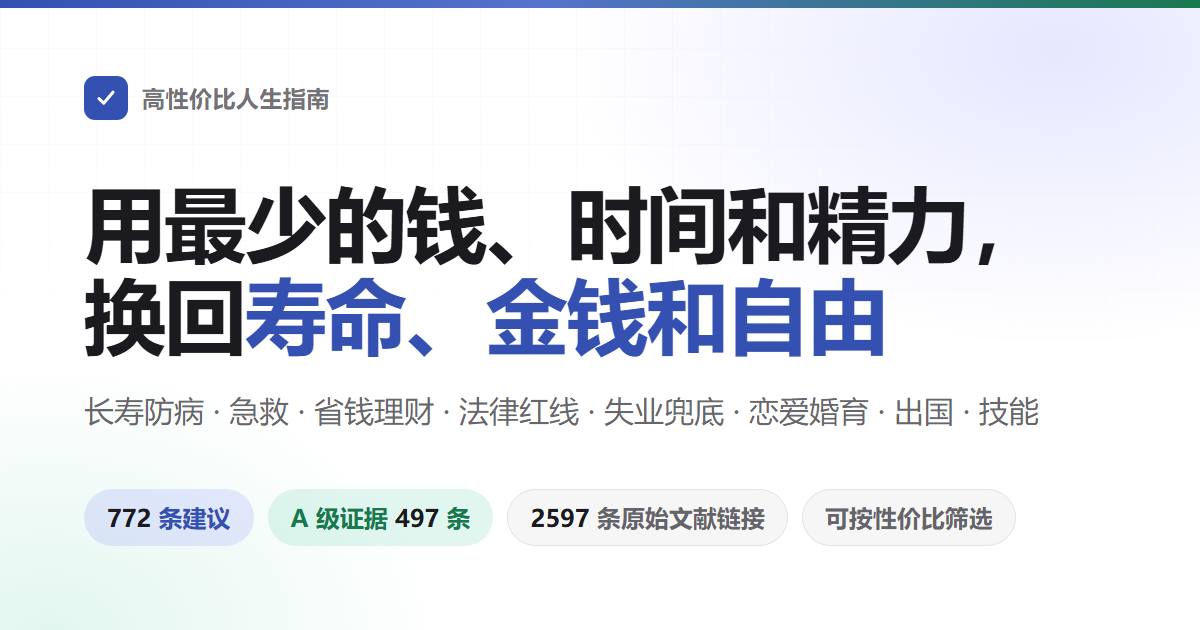
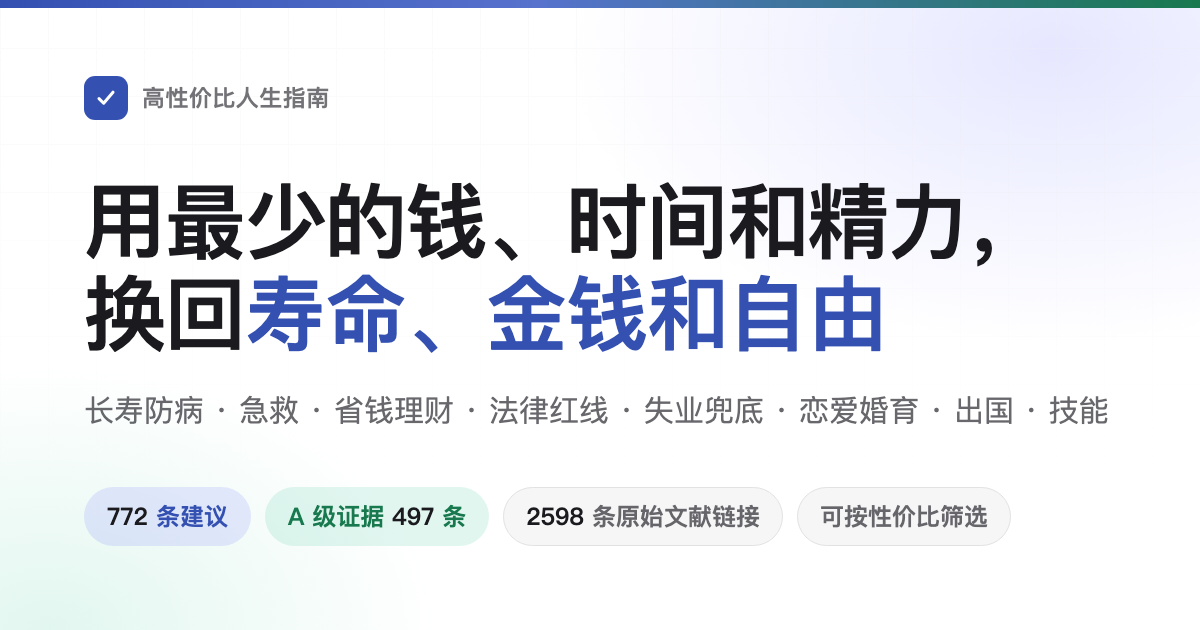
F25: 替换失效青岛案例并按深圳司法局原文重写事实
Refs eternity4719/HowToLiveBetter#171

diff --git a/tools/og.html b/tools/og.html
@@ -36,7 +36,7 @@ p{margin-top:26px;font-size:30px;white-space:nowrap;line-height:1.6;color:#3c3c4
   <div class="chips">
     <div class="c u"><b>772</b> 条建议</div>
     <div class="c a">A 级证据 <b>497</b> 条</div>
-    <div class="c"><b>2597</b> 条原始文献链接</div>
+    <div class="c"><b>2598</b> 条原始文献链接</div>
     <div class="c">可按性价比筛选</div>
   </div>
 </div>

diff --git a/docs/引用对照.md b/docs/引用对照.md
@@ -168,7 +168,7 @@
 | 节首 | 本节第 1 条 | 戒烟，越早越好 | …戒烟越早越好（… |
 | 节首 | 本节第 2 条 | 别在家里和车里抽烟，也别让客人在家里抽 | …戒烟越早越好（第 1 条），家里和车里不抽烟（… |
 | 节首 | 本节第 3 条 | 戒烟别光靠忍，先去拿药：吃伐尼克兰的成功率能翻一倍多 | …戒烟越早越好（第 1 条），家里和车里不抽烟（第 2 条），戒烟先去拿药（… |
-| 节首 | 本节第 4 条 | 定一个戒烟日，到那天一次停掉，别先慢慢减 | …第 1 条），家里和车里不抽烟（第 2 条），戒烟先去拿药（第 3 条），定一个戒烟日（… |
+| 节首 | 本节第 4 条 | 定一个戒烟日，可以一次停掉，也可以先慢慢减到完全不抽 | …第 1 条），家里和车里不抽烟（第 2 条），戒烟先去拿药（第 3 条），定一个戒烟日（… |
 | 节首 | 本节第 5 条 | 去戒烟门诊，或者打 12320 问当地有没有戒烟服务 | …），戒烟先去拿药（第 3 条），定一个戒烟日（第 4 条），去戒烟门诊或打 12320（… |
 | 节首 | 本节第 6 条 | 已经戒不掉再考虑电子烟，本来不吸烟的人别碰 | …一个戒烟日（第 4 条），去戒烟门诊或打 12320（第 5 条），戒不掉再考虑电子烟（… |
 | 节首 | 本节第 8 条 | 不嚼槟榔 | …，去戒烟门诊或打 12320（第 5 条），戒不掉再考虑电子烟（第 6 条），不嚼槟榔（… |
@@ -213,11 +213,11 @@
 | 节首 | 本节第 36 条 | 有条件就泡澡，别只冲淋浴 | … 条），按医嘱规律吃药（第 12 条），白天出门晒晒太阳（第 31 条），有条件就泡澡（… |
 | 节首 | 本节第 43 条 | 绝经前后潮热盗汗影响到生活，就去妇科评估激素治疗，别硬扛也别自己买药，更别拿它防心脏病 | …出门晒晒太阳（第 31 条），有条件就泡澡（第 36 条），绝经前后潮热去评估激素治疗（… |
 | 第 1 条 | 本节第 3 条 | 戒烟别光靠忍，先去拿药：吃伐尼克兰的成功率能翻一倍多 | …… |
-| 第 1 条 | 本节第 4 条 | 定一个戒烟日，到那天一次停掉，别先慢慢减 | …第 3 条（戒烟药）、… |
+| 第 1 条 | 本节第 4 条 | 定一个戒烟日，可以一次停掉，也可以先慢慢减到完全不抽 | …第 3 条（戒烟药）、… |
 | 第 1 条 | 本节第 5 条 | 去戒烟门诊，或者打 12320 问当地有没有戒烟服务 | …第 3 条（戒烟药）、第 4 条（定一个戒烟日）、… |
 | 第 1 条 | 本节第 6 条 | 已经戒不掉再考虑电子烟，本来不吸烟的人别碰 | …第 3 条（戒烟药）、第 4 条（定一个戒烟日）、第 5 条（去戒烟门诊）、… |
 | 第 2 条 | 本节第 1 条 | 戒烟，越早越好 | …自己戒烟见本节… |
-| 第 3 条 | 本节第 4 条 | 定一个戒烟日，到那天一次停掉，别先慢慢减 | …药只解决戒断那几周的难受，不解决「想抽」的场合，所以要和本节… |
+| 第 3 条 | 本节第 4 条 | 定一个戒烟日，可以一次停掉，也可以先慢慢减到完全不抽 | …药只解决戒断那几周的难受，不解决「想抽」的场合，所以要和本节… |
 | 第 3 条 | 本节第 5 条 | 去戒烟门诊，或者打 12320 问当地有没有戒烟服务 | …药只解决戒断那几周的难受，不解决「想抽」的场合，所以要和本节第 4 条（定一个戒烟日）、… |
 | 第 5 条 | 本节第 3 条 | 戒烟别光靠忍，先去拿药：吃伐尼克兰的成功率能翻一倍多 | …要配的药见本节… |
 | 第 6 条 | 第 22 节第 4 条 | 不吃陌生人给的糖和零食，不喝离开过视线的饮料，不接别人递的烟弹 | …掺了合成大麻素的「上头电子烟」就是这么流出来的，见… |
@@ -333,7 +333,7 @@
 | 第 25 条 | 第 34 节第 3 条 | 60 岁以上、胃出过血、在吃抗凝药或激素的人，吃布洛芬这类止痛药之前先问医生 | …细节见… |
 | 第 25 条 | 第 34 节第 5 条 | 怀孕 20 周以后，别自己吃布洛芬这类止痛药 | …可能怀孕时先问医生，怀孕 20 周以后别自己吃，见… |
 | 第 25 条 | 第 34 节第 1 条 | 同时吃两种感冒药或止痛药之前，先看成分表，对乙酰氨基酚只能占一种，吃多了没不舒服也当天去医院 | …不能吃这类药的，可以改用对乙酰氨基酚，一天的上限见… |
-| 第 25 条 | 第 34 节第 9 条 | 止痛药一个月别吃超过 15 天，复方止痛药别超过 10 天，不然头痛可能就是药吃出来的 | …… |
+| 第 25 条 | 第 34 节第 9 条 | 头痛时，普通止痛药每月用到 15 天、复方止痛药用到 10 天，就要警惕药物过度使用性头痛 | …… |
 | 第 26 条 | 第 6 节第 34 条 | 不要指望长期失眠靠吃褪黑素治好，它平均只让人早睡着约 7 分钟，先做失眠的认知行为治疗 | …别指望靠褪黑素治好长期失眠，见… |
 | 第 26 条 | 本节第 2 条 | 固定起床时间，周末也一样 | …这时先固定起床时间，见本节… |
 | 第 26 条 | 本节第 4 条 | 下午两点以后不碰咖啡因 | …再看… |
@@ -704,7 +704,7 @@
 | 节首 | 本节第 43 条 | 被家暴了：先报警留下出警记录，再去法院申请人身安全保护令，不用先离婚，也不收费 | …条），婚前财产写清楚（第 25 条），结婚前核对婚姻状况（第 26 条），被家暴先报警（… |
 | 节首 | 本节第 5 条 | 被指控或被传唤，先请律师，不私了、不删记录 | …被传唤先请律师（… |
 | 节首 | 本节第 6 条 | 出了事主动去说清楚：自首最多能减四成刑，犯罪较轻的还能减更多甚至免罚，「躲过追诉期」这条路是堵死的 | …被传唤先请律师（第 5 条），出了事主动去说清楚（… |
-| 节首 | 本节第 33 条 | 被人捏造事实举报，可以要求追究：够治安处罚的拘留 5 日起，够罪的判 3 年以下 | …被传唤先请律师（第 5 条），出了事主动去说清楚（第 6 条），被人捏造事实举报（… |
+| 节首 | 本节第 33 条 | 被人捏造事实举报，可以要求追究：够治安处罚的可拘留 5 日以下或罚款，情节较重的拘留 5 到 10 日，够罪的判 3 年以下 | …被传唤先请律师（第 5 条），出了事主动去说清楚（第 6 条），被人捏造事实举报（… |
 | 节首 | 本节第 34 条 | 证据不足本来就应当判无罪，逼出来的口供应当排除；判了还有申诉和再审 | …出了事主动去说清楚（第 6 条），被人捏造事实举报（第 33 条），证据不足应当判无罪（… |
 | 节首 | 本节第 35 条 | 被羁押后撤案、不起诉或者判无罪的，去申请国家赔偿，按天算钱 | …），被人捏造事实举报（第 33 条），证据不足应当判无罪（第 34 条），申请国家赔偿（… |
 | 节首 | 本节第 39 条 | 报警当场要受案回执，不立案要书面通知：7 日内可申请复议，再 7 日可申请复核，检察院能通知公安立案 | …，证据不足应当判无罪（第 34 条），申请国家赔偿（第 35 条），报警当场要受案回执（… |
@@ -724,7 +724,7 @@
 | 第 3 条 | 第 12 节第 24 条 | 花钱请人代运营网店、上开店培训、做「无货源」之前，先问清后面还要不要加钱、销量从哪来 | …做生意时撞上的代运营骗局，见… |
 | 第 3 条 | 本节第 45 条 | 熟人让你「帮忙刷个脸、做个见证」去办贷款，或者要你念验证码，别答应：这叫 AB 贷，借款人是你，不是担保人 | …熟人当面找你「帮忙刷个脸」办贷款，不让你转钱，却让你背债，见… |
 | 第 4 条 | 本节第 2 条 | 发现被骗，立刻打 110 或 96110 要求止付，别先自己查 | …已经转了钱，见本节… |
-| 第 5 条 | 本节第 33 条 | 被人捏造事实举报，可以要求追究：够治安处罚的拘留 5 日起，够罪的判 3 年以下 | …展开的三条见本节… |
+| 第 5 条 | 本节第 33 条 | 被人捏造事实举报，可以要求追究：够治安处罚的可拘留 5 日以下或罚款，情节较重的拘留 5 到 10 日，够罪的判 3 年以下 | …展开的三条见本节… |
 | 第 5 条 | 本节第 34 条 | 证据不足本来就应当判无罪，逼出来的口供应当排除；判了还有申诉和再审 | …展开的三条见本节第 33 条（追究捏造事实的一方）、… |
 | 第 5 条 | 本节第 35 条 | 被羁押后撤案、不起诉或者判无罪的，去申请国家赔偿，按天算钱 | …见本节第 33 条（追究捏造事实的一方）、第 34 条（证据不足应当判无罪与申诉再审）、… |
 | 第 6 条 | 本节第 1 条 | 出了交通事故先停车、救人、报警，不要跑 | …事故现场怎么做见本节… |
@@ -1860,7 +1860,7 @@
 | 确诊那一周 | 第 16 节第 9 条 | 确诊痛风后长了痛风石、影像上看到骨头被啃出缺损或每年发作 2 次以上的，就长期吃降尿酸药，把血尿酸压到 360 µmol/L 以下并一直维持 | …见… |
 | 确诊那一周 | 第 16 节第 9 条 | 确诊痛风后长了痛风石、影像上看到骨头被啃出缺损或每年发作 2 次以上的，就长期吃降尿酸药，把血尿酸压到 360 µmol/L 以下并一直维持 | …见… |
 | 确诊那一周 | 第 6 节第 19 条 | 不要因为体检查出尿酸高、但从没痛过，就开始吃降尿酸药 | …见… |
-| 确诊那一周 | 第 2 节第 4 条 | 定一个戒烟日，到那天一次停掉，别先慢慢减 | …见… |
+| 确诊那一周 | 第 2 节第 4 条 | 定一个戒烟日，可以一次停掉，也可以先慢慢减到完全不抽 | …见… |
 | 确诊那一周 | 第 2 节第 3 条 | 戒烟别光靠忍，先去拿药：吃伐尼克兰的成功率能翻一倍多 | …见… |
 | 头三个月 | 第 16 节第 3 条 | 复查按医生给的间隔做，把每次的指标记在同一个本子上 | …见… |
 | 头三个月 | 第 24 节第 5 条 | 每次看完病，把病历、检查报告和影像自己存一份 | …见… |
@@ -1943,7 +1943,7 @@
 
 | 出处 | 引用 | 指向的条目 | 引用处的上下文 |
 | --- | --- | --- | --- |
-| 家庭应急装备清单：买什么、放哪里、多久检查一次 | 第 1 节第 26 条 | 备齐灭火器、灭火毯、逃生呼吸面罩和急救包，每年检查一次 | …对应 README … |
+| 家庭应急装备清单：买什么、放哪里、多久检查一次 | 第 1 节第 26 条 | 备齐灭火器、灭火毯、逃生呼吸面罩和急救包，每年检查一次 | …对应[… |
 | 家庭应急装备清单：买什么、放哪里、多久检查一次 | 第 1 节第 3 条 | 装烟雾报警器；冬天在室内烧煤、用燃气取暖的再装一氧化碳报警器 | …烟雾报警器和一氧化碳报警器怎么选怎么装，见… |
 | 家庭应急装备清单：买什么、放哪里、多久检查一次 | 第 1 节第 4 条 | 燃气软管和灶具到期就换，不自己改管道，燃气公司上门推销可以直接拒绝 | …燃气软管和灶具见… |
 | 二、消防三件套 | 第 13 节第 24 条 | 火灾时贴地爬、摸门再开门、门烫就别开，走楼梯不坐电梯，出去了别回头 | …怎么往外逃（贴地爬、摸门再开门、走楼梯不坐电梯），见… |

diff --git a/book/19-在职离职和工伤.md b/book/19-在职离职和工伤.md
@@ -231,8 +231,8 @@
 ### 25. 劳动合同要拿回自己那一份；已经在空白或没填全的合同上签了字，当天就发书面消息要单位填好交你一份，把「签的时候是空白」留下记录
 <!-- 成本标签: 钱=0 时间=少 毅力=些 收益=中 口径=金钱 -->
 - 成本：不花钱。签之前把合同从头看到尾，单位名称、期限、岗位、工资这几栏空着就先别签。已经签了的，当天给经办人发一条微信或邮件。写明哪几栏签的时候是空的，请单位填好后给你一份。单位不给，打 12333 或者去人社局劳动监察投诉。立案后 60 个工作日内查完，复杂的再延 30 个工作日。闹到要赔钱，走劳动仲裁，1 年内申请，不收费，受理后 45 天内结案，最多再延 15 天。不服的再去法院，一审普通程序按规定 6 个月内审完，可以延长，律师费自己出。难在刚入职就要开口要合同。
-- 说人话：劳动合同要单位和你各拿一份，没写全工资、期限这些必备内容的，单位会被责令改正。签了空白合同又拿不出证据，仲裁可能就认单位后来填的那份。所以签完就要单位填好给你一份，并把签时是空白留下记录。
-- 收益：劳动合同法规定，合同要双方在合同文本上签字或者盖章才生效。文本由单位和劳动者各拿一份。合同必须写明的条款有九项。其中有单位名称、合同期限、工作内容和地点、工作时间、劳动报酬、社会保险、劳动保护。单位给的文本没写全必备条款，或者没把文本交给劳动者的，由劳动行政部门责令改正。给劳动者造成损害的，要赔偿。单位和劳动者订立劳动合同的情况，本来就在劳动保障监察管的事里。合同对工资、劳动条件约定不明确的，可以重新协商。协商不成的按集体合同。没有集体合同或者集体合同没规定工资的，同工同酬。用欺诈、胁迫手段或者乘人之危，让人违背真实意思签下的合同，无效或者部分无效，由仲裁或者法院确认。青岛市人社局公布过一个仲裁案例。一名销售员入职约五个月后辞职，要单位付没签合同的二倍工资。单位拿出一份有他签名的两年期合同。他认签名是自己的，说签时是空白，但拿不出证据。仲裁庭认了这份合同，驳回了他的请求。人社局的评析说，签了字就要履行。只有拿出有效证据证明单位有欺诈、胁迫这类情形，合同才会被认定无效。北京大兴法院审过一个结果相反的案子。20 名班车司机说签过空白合同，手里没有合同。签的时候单位让他们在一沓文件上签名，没让看内容。单位拿出的合同，期限都是手写。司机们入职时间、签订次数各不相同，终止日却都写成同一天。这一天正好是单位和客户合作结束的日子。法院认为，司机们说签的是空白期限的合同更可信。单位又证明不了这个终止日是当时的真实约定，法院认定构成违法解除，要付违法解除赔偿金。二审维持原判。开除、辞退、解除合同、减少工资这类决定引起的争议，由单位负举证责任（全国；两个案例只代表当地的认定）
+- 说人话：劳动合同要单位和你各拿一份，没写全工资、期限这些必备内容的，单位会被责令改正。签过空白合同，后来想维权，不能只靠一句「签时是空白」。所以签完就要单位填好给你一份，并把签时是空白留下记录。
+- 收益：劳动合同法规定，合同要双方在合同文本上签字或者盖章才生效。文本由单位和劳动者各拿一份。合同必须写明的条款有九项。其中有单位名称、合同期限、工作内容和地点、工作时间、劳动报酬、社会保险、劳动保护。单位给的文本没写全必备条款，或者没把文本交给劳动者的，由劳动行政部门责令改正。给劳动者造成损害的，要赔偿。单位和劳动者订立劳动合同的情况，本来就在劳动保障监察管的事里。合同对工资、劳动条件约定不明确的，可以重新协商。协商不成的按集体合同。没有集体合同或者集体合同没规定工资的，同工同酬。用欺诈、胁迫手段或者乘人之危，让人违背真实意思签下的合同，无效或者部分无效，由仲裁或者法院确认。深圳市司法局公布过一宗法律援助案件。一名大巴司机说，入职时签的是单位信息、期限、工资、岗位都空着的合同。他被辞退后申请仲裁，只获支持部分工资。后来他起诉并申请法律援助，律师梳理证据，从薪酬模式入手。法院一审除维持仲裁裁决外，另判公司支付加班费、赔偿金等共计 3 万余元。这说明签过空白合同后，仍要靠具体证据争取权益。北京大兴法院还审过一宗相关案子。20 名班车司机说签过空白合同，手里没有合同。签的时候单位让他们在一沓文件上签名，没让看内容。单位拿出的合同，期限都是手写。司机们入职时间、签订次数各不相同，终止日却都写成同一天。这一天正好是单位和客户合作结束的日子。法院认为，司机们说签的是空白期限的合同更可信。单位又证明不了这个终止日是当时的真实约定，法院认定构成违法解除，要付违法解除赔偿金。二审维持原判。开除、辞退、解除合同、减少工资这类决定引起的争议，由单位负举证责任（全国；两个案例只代表当地的认定）
 - 证据等级：B
-- 来源：全国人大常委会 (2012 修正). 劳动合同法（第十六、十七、十八、二十六、八十一条）. <https://fgk.chinatax.gov.cn/zcfgk/c100009/c5193025/content.html>（国家税务总局政策法规库转载）；国务院 (2004). 劳动保障监察条例（国务院令第 423 号，第十一、十七条）. <https://www.gov.cn/gongbao/content/2004/content_63042.htm>；最高人民法院 (2020). 关于审理劳动争议案件适用法律问题的解释（一）（法释〔2020〕26 号，第四十四条）. <https://www.court.gov.cn/fabu/xiangqing/282121.html>；全国人大常委会 (2007). 劳动争议调解仲裁法（第二十七、四十三、五十三条）. <https://rsj.ankang.gov.cn/Content-2150407.html>（安康市人力资源和社会保障局转载）；国务院 (2006). 诉讼费用交纳办法（国务院令第 481 号，第六、十三条）. <https://www.gov.cn/ziliao/flfg/2006-12/29/content_483682.htm>；青岛市人力资源和社会保障局 (2020). 「空白合同」的陷阱（劳动关系典型案例）. <https://hrss.qingdao.gov.cn/zq_47/ldgx_47/dxal_47/202206/t20220614_6146624.shtml>；北京市怀柔区司法局 (2025). 【以案释法】二十名司机「集体拒签」？法院：空白合同与恶意辞退难逃责（大兴法院审理，怀柔区人民政府网站刊登）. <https://www.bjhr.gov.cn/zt/qwpf/yasf/202509/t20250912_4200995.html>
-- 备注：不在空白纸上签字的一般规矩，见第 8 节第 17 条（签字前把纸看完）。大兴那个案子的法官提示，要单位把关键条款填完整再签。法官还提示，一次要你签一大沓文件的，逐份看清是什么再签。定 B 的理由：签了空白合同之后怎么认定，法律没有专门条文，靠仲裁和法院按证据个案判断。上面两个案例结果正好相反，差别在劳动者手里有没有证据、单位的说法有没有破绽。签了空白合同能不能算没签书面合同、要二倍工资，没查到全国口径，青岛那个案例没支持。单位后填的工资比实际约定低的，靠工资流水、考勤、聊天记录证明。存法见本节第 8 条（离职前存证据）。单位一直没给你签书面合同的，见本节第 20 条（双倍工资）。按违法解除算钱，见本节第 6 条（违法解除的赔偿金）。仲裁时效的一般规则见第 8 节第 19 条（维权有期限）。收益定中是凭判断：后填的条款能造成多少损失，各家不同，没有统一的数。
+- 来源：全国人大常委会 (2012 修正). 劳动合同法（第十六、十七、十八、二十六、八十一条）. <https://fgk.chinatax.gov.cn/zcfgk/c100009/c5193025/content.html>（国家税务总局政策法规库转载）；国务院 (2004). 劳动保障监察条例（国务院令第 423 号，第十一、十七条）. <https://www.gov.cn/gongbao/content/2004/content_63042.htm>；最高人民法院 (2020). 关于审理劳动争议案件适用法律问题的解释（一）（法释〔2020〕26 号，第四十四条）. <https://www.court.gov.cn/fabu/xiangqing/282121.html>；全国人大常委会 (2007). 劳动争议调解仲裁法（第二十七、四十三、五十三条）. <https://rsj.ankang.gov.cn/Content-2150407.html>（安康市人力资源和社会保障局转载）；国务院 (2006). 诉讼费用交纳办法（国务院令第 481 号，第六、十三条）. <https://www.gov.cn/ziliao/flfg/2006-12/29/content_483682.htm>；深圳市司法局 (2024). 员工大意掉入空白合同的「坑」，罗湖法援助力终维权（2024 年 4 月 17 日）. <https://sf.sz.gov.cn/ztzl/mssszt/sqflgw/tzgg/content/post_11246625.html>；北京市怀柔区司法局 (2025). 【以案释法】二十名司机「集体拒签」？法院：空白合同与恶意辞退难逃责（大兴法院审理，怀柔区人民政府网站刊登）. <https://www.bjhr.gov.cn/zt/qwpf/yasf/202509/t20250912_4200995.html>
+- 备注：不在空白纸上签字的一般规矩，见第 8 节第 17 条（签字前把纸看完）。大兴那个案子的法官提示，要单位把关键条款填完整再签。法官还提示，一次要你签一大沓文件的，逐份看清是什么再签。定 B 的理由：签了空白合同之后怎么认定，法律没有专门条文，靠仲裁和法院按证据个案判断。深圳案显示，仲裁未支持的请求，诉讼中凭证据仍可能获得支持；大兴案中，单位对合同终止日的解释存在破绽。两个案例都不能保证签过空白合同就一定胜诉。签了空白合同能不能算没签书面合同、要二倍工资，没查到全国口径。单位后填的工资比实际约定低的，靠工资流水、考勤、聊天记录证明。存法见本节第 8 条（离职前存证据）。单位一直没给你签书面合同的，见本节第 20 条（双倍工资）。按违法解除算钱，见本节第 6 条（违法解除的赔偿金）。仲裁时效的一般规则见第 8 节第 19 条（维权有期限）。收益定中是凭判断：后填的条款能造成多少损失，各家不同，没有统一的数。

diff --git a/docs/核实记录/追加-空白劳动合同.md b/docs/核实记录/追加-空白劳动合同.md
@@ -44,3 +44,11 @@
 - 证据等级 B：法条（各执一份、必备条款、责令改正）是硬的，但「签了空白合同之后怎么认定」没有专门条文，靠仲裁和法院按证据个案判断，两个官方案例结果相反。
 - 收益「中」凭判断：后填条款造成的损失各家不同，没有统一数字。口径金钱。
 - 成本标签：钱=0，时间=少（发一条消息、必要时投诉），毅力=些（刚入职要开口要合同）。
+
+## 五、2026-11-08 来源修正（issue #171，F25）
+
+- 原青岛案例链接返回 404，未找到可读取的同篇官方副本或有效网页存档。上面的旧核实过程保留为历史记录，不再作为正文当前出处。
+- 正文改用深圳市司法局 2024-04-17 发布的第一手法律援助记录：<https://sf.sz.gov.cn/ztzl/mssszt/sqflgw/tzgg/content/post_11246625.html>。这不是青岛案的新地址，而是另一起案件；正文事实和备注一起改写。
+- 页面原文：「裁决结果仅支持段先生部分工资的诉求」；律师「以薪酬模式的界定为切入点」；「除了维持仲裁裁决之外，另判决公司支付段先生加班费、赔偿金等共计3万余元」。
+- 不再保留青岛销售员、约五个月、两年合同、二倍工资请求被驳回等无法从新来源核对的事实，也不把两案说成结果相反。深圳案说明的是取证和法律援助的作用，不保证任何空白合同当然无效或必然胜诉。
+

diff --git a/README.md b/README.md
@@ -16,7 +16,7 @@
 [![在线检索](https://img.shields.io/badge/%E5%9C%A8%E7%BA%BF%E6%A3%80%E7%B4%A2-%E7%82%B9%E8%BF%99%E9%87%8C%E6%89%93%E5%BC%80-3451b2?style=flat-square)](https://eternity4719.github.io/HowToLiveBetter/)
 [![条目](https://img.shields.io/badge/%E6%9D%A1%E7%9B%AE-772%20%E6%9D%A1-18794e?style=flat-square)](#目录)
 [![证据分级](https://img.shields.io/badge/%E8%AF%81%E6%8D%AE%E5%88%86%E7%BA%A7-A%20497%20%C2%B7%20B%20223%20%C2%B7%20C%2052-915930?style=flat-square)](#证据分级)
-[![原始文献](https://img.shields.io/badge/%E5%8E%9F%E5%A7%8B%E6%96%87%E7%8C%AE-2597%20%E6%9D%A1%E9%93%BE%E6%8E%A5-565a5f?style=flat-square)](docs/核实记录/)
+[![原始文献](https://img.shields.io/badge/%E5%8E%9F%E5%A7%8B%E6%96%87%E7%8C%AE-2598%20%E6%9D%A1%E9%93%BE%E6%8E%A5-565a5f?style=flat-square)](docs/核实记录/)
 [![许可](https://img.shields.io/badge/%E8%AE%B8%E5%8F%AF-CC%20BY%204.0-565a5f?style=flat-square)](#许可)
 [![Claude Code 协助编写](https://img.shields.io/badge/Claude%20Code-%E5%8D%8F%E5%8A%A9%E7%BC%96%E5%86%99-D97757?style=flat-square&logo=claude&logoColor=white)](https://claude.com/claude-code)
 
